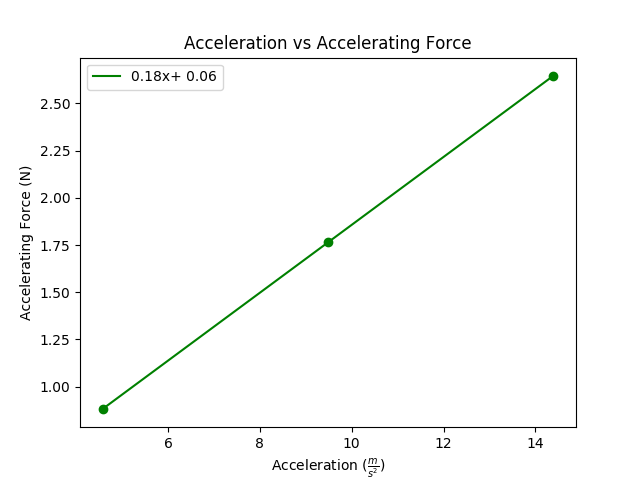
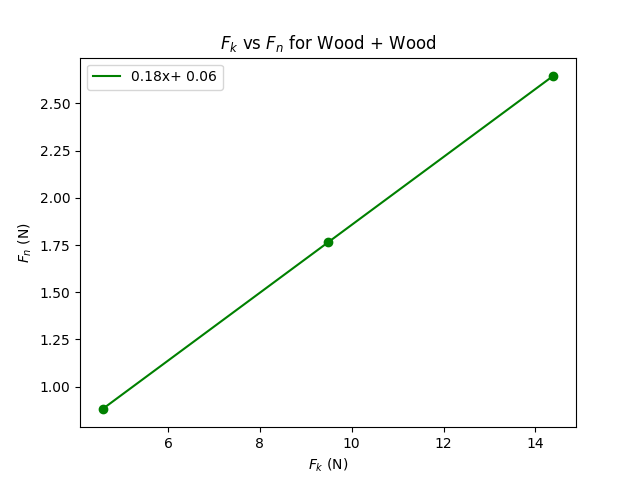
Updating Graphs

Changed region(s): [[0.2812, 0.0625, 0.75, 0.125], [0.4375, 0.9375, 0.5938, 1.0], [0.0312, 0.3438, 0.0625, 0.6562]]

diff --git a/SmallQuestions/test.py b/SmallQuestions/test.py
@@ -2,8 +2,8 @@ import matplotlib.pyplot as plt
 from scipy.optimize import curve_fit
 import numpy as np
 
-x1 = [4.58, 9.48, 14.386]
-y1 = [1.47, 2.45, 4.41]
+x1 = [5.8615, 10.6115, 15.3615]
+y1 = [0.98, 1.96, 2.842]
 slope = (y1[0] - y1[2]) / (x1[0] - x1[2])
 
 
@@ -22,11 +22,11 @@ def plot(x_data, y_data, color):
     plt.plot(xd, line, color=color, label=l)
 
 
-plt.title("$F_k$ vs $F_n$ for Wood + Duct Tape")
-plt.xlabel(r"$F_k$ (N)")
+plt.title("$F_k$ vs $F_n$ for Wood + Wood")
+plt.xlabel("$F_k$ (N)")
 plt.ylabel("$F_n$ (N)")
 plt.scatter(x1, y1, color="y")
 plot(x1, y1, color="y")
 plt.legend(loc="upper left")
-plt.savefig("./Graphs/force_1.png")
+plt.savefig("./force_1.png")
 plt.show()

diff --git a/SmallQuestions/grayscale.py b/SmallQuestions/grayscale.py
@@ -1,0 +1,32 @@
+# My Name:
+
+# don't forget to import the math library...
+import math
+
+
+def eToX(x):
+    term = 1
+    sum = 1
+    n = 2
+    while term > 10E-12:
+        f = 1
+        for i in range(1,n + 1):
+            f *= i
+        term = (x ** n) / f
+        sum += term
+        print("")
+        print("n: ", n, "\tterm: ", term, "\tsum: ", sum)
+        n += 1
+    print("my e^x: ", sum)
+    print("real e^x: ", math.exp(n))
+    return sum
+
+
+def main():
+    eToX(1.5)
+    pass
+
+
+if __name__ == "__main__":
+    main()
+

diff --git a/PhysicsGraphs/force_graph_2.py b/PhysicsGraphs/force_graph_2.py
@@ -22,9 +22,9 @@ def plot(x_data, y_data, color):
     plt.plot(xd, line, color=color, label=l)
 
 
-plt.title("Acceleration vs Accelerating Force")
-plt.xlabel(r"Acceleration $(\frac{m}{s^2})$")
-plt.ylabel("Accelerating Force (N)")
+plt.title("$F_k$ vs $F_n$ for Wood + Wood")
+plt.xlabel(r"$F_k$ (N)")
+plt.ylabel("$F_n$ (N)")
 plt.scatter(x1, y1, color="g")
 plot(x1, y1, color="g")
 plt.legend(loc="upper left")
